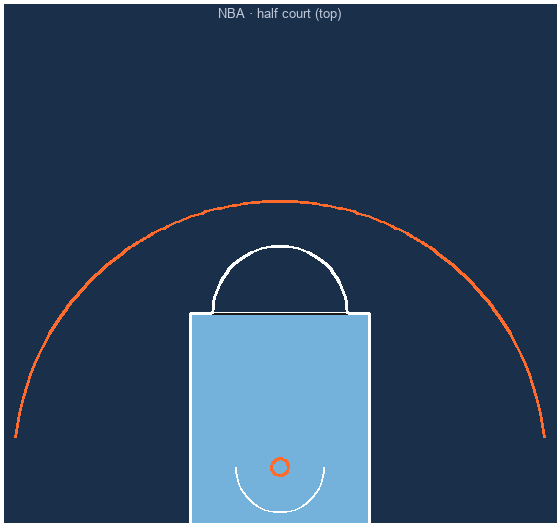
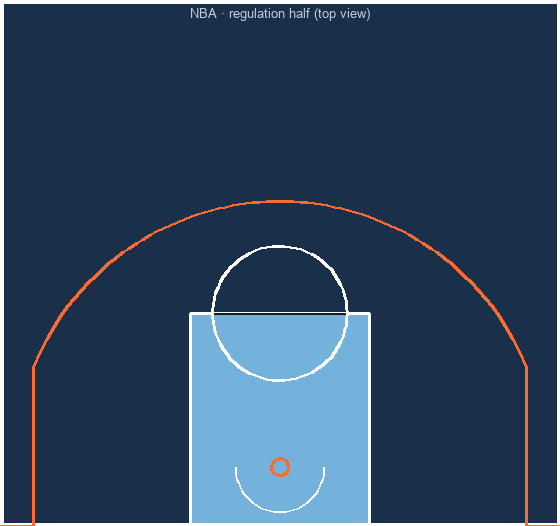
NBA regulation half-court geometry: 3pt corners, restricted arc, FT circle; sync web PNG
Made-with: Cursor

diff --git a/web/js/swish.js b/web/js/swish.js
@@ -12,6 +12,10 @@
   const HOOP_X = 0,
     HOOP_Y = 5.25;
   const THREE_R = 23.75;
+  const THREE_LINE_INSET = 3;
+  const THREE_JOIN_X = 25 - THREE_LINE_INSET;
+  const RESTRICTED_R = 4;
+  const FT_CIRCLE_R = 6;
   const PAINT_X = 8;
   const FT_Y = 19;
   const COURT_W = 560;
@@ -165,7 +169,8 @@
     ctx.fill();
 
     const rimOrange = "#ff6b2d";
-    ctx.strokeStyle = "#e8eef5";
+    const lineWhite = "#e8eef5";
+    ctx.strokeStyle = lineWhite;
     ctx.lineWidth = Math.max(1, w / 280);
     const line = (x0, y0, x1, y1) => {
       const a = feetToPixel(x0, y0, w, h);
@@ -176,30 +181,69 @@
       ctx.stroke();
     };
 
+    line(-25, 0, 25, 0);
+    line(-25, 0, -25, 47);
+    line(25, 0, 25, 47);
+    line(-25, 47, 25, 47);
+
     line(-PAINT_X, COURT_Y0, PAINT_X, COURT_Y0);
     line(PAINT_X, COURT_Y0, PAINT_X, FT_Y);
     line(-PAINT_X, FT_Y, PAINT_X, FT_Y);
     line(-PAINT_X, COURT_Y0, -PAINT_X, FT_Y);
-    line(-25, 47, 25, 47);
+    line(-6, FT_Y, 6, FT_Y);
 
-    ctx.strokeStyle = rimOrange;
-    ctx.lineWidth = Math.max(2, w / 200);
-    line(-3, COURT_Y0, -3, 4);
-    line(3, COURT_Y0, 3, 4);
-
-    const hx = HOOP_X,
-      hy = HOOP_Y;
+    ctx.strokeStyle = lineWhite;
+    ctx.lineWidth = Math.max(2, w / 240);
     ctx.beginPath();
-    for (let i = 0; i <= 120; i++) {
-      const xv = -23.6 + (47.2 * i) / 120;
-      const d = THREE_R * THREE_R - (xv - hx) * (xv - hx);
-      if (d < 0) continue;
-      const yv = hy + Math.sqrt(d);
-      const [px, py] = feetToPixel(xv, yv, w, h);
+    for (let i = 0; i <= 64; i++) {
+      const t = (i / 64) * Math.PI * 2;
+      const [px, py] = feetToPixel(
+        FT_CIRCLE_R * Math.cos(t),
+        FT_Y + FT_CIRCLE_R * Math.sin(t),
+        w,
+        h
+      );
       if (i === 0) ctx.moveTo(px, py);
       else ctx.lineTo(px, py);
     }
+    ctx.closePath();
+    ctx.stroke();
+
+    ctx.lineWidth = Math.max(1.5, w / 300);
+    ctx.beginPath();
+    for (let i = 0; i <= 32; i++) {
+      const t = Math.PI + (i / 32) * Math.PI;
+      const [px, py] = feetToPixel(
+        RESTRICTED_R * Math.cos(t),
+        HOOP_Y + RESTRICTED_R * Math.sin(t),
+        w,
+        h
+      );
+      if (i === 0) ctx.moveTo(px, py);
+      else ctx.lineTo(px, py);
+    }
+    ctx.stroke();
+
+    const hx = HOOP_X,
+      hy = HOOP_Y;
     ctx.strokeStyle = rimOrange;
+    ctx.lineWidth = Math.max(2, w / 200);
+    ctx.beginPath();
+    const jx = THREE_JOIN_X;
+    const [pR0, pR1] = [feetToPixel(25, 0, w, h), feetToPixel(jx, 0, w, h)];
+    ctx.moveTo(pR0[0], pR0[1]);
+    ctx.lineTo(pR1[0], pR1[1]);
+    for (let i = 0; i <= 72; i++) {
+      const xv = jx + (i / 72) * (-2 * jx);
+      const d = THREE_R * THREE_R - xv * xv;
+      if (d < 0) continue;
+      const yv = hy + Math.sqrt(d);
+      const [px, py] = feetToPixel(xv, yv, w, h);
+      ctx.lineTo(px, py);
+    }
+    const [pL1, pL0] = [feetToPixel(-jx, 0, w, h), feetToPixel(-25, 0, w, h)];
+    ctx.lineTo(pL1[0], pL1[1]);
+    ctx.lineTo(pL0[0], pL0[1]);
     ctx.stroke();
 
     const RIM_R_FT = 0.75;

diff --git a/swish.py b/swish.py
@@ -63,14 +63,20 @@ DARK_CSS = """
 </style>
 """
 
-# Half court in feet: baseline y=0, midcourt y=47, width ±25 (50 ft).
+# NBA regulation — offensive half (baseline y=0 toward midcourt y=47).
+# Full court 94'×50'; division line at 47'. Key 16'×19'; FT line 19' from baseline (15' from backboard plane).
+# Ref: NBA Official Playing Rules, court diagram.
 COURT_X0, COURT_X1 = -25.0, 25.0
 COURT_Y0, COURT_Y1 = 0.0, 47.0
-HOOP = (0.0, 5.25)
-RIM_R = 0.75
-FT_Y = 19.0
-PAINT_X = 8.0
-THREE_R = 23.75
+HOOP = (0.0, 5.25)  # 5'3" — baseline to center of ring
+RIM_R = 0.75  # 18" diameter rim → 9" radius
+FT_Y = 19.0  # baseline to free-throw line
+PAINT_X = 8.0  # half of 16' lane width
+THREE_R = 23.75  # 23'9" arc from basket center
+THREE_LINE_INSET_FT = 3.0  # 3pt straight segments run 3' inside each sideline
+THREE_JOIN_X = COURT_X1 - THREE_LINE_INSET_FT  # 22 — where arc meets verticals
+RESTRICTED_R_FT = 4.0  # no-charge semicircle
+FT_CIRCLE_R_FT = 6.0
 
 # Canvas / background size (50:47 court aspect; image is scaled to this)
 COURT_IMG_W = 560
@@ -165,20 +171,8 @@ def format_shot_one_line(shot: dict) -> str:
     return f"{res} · {t}"
 
 
-def three_point_arc_points():
-    hx, hy = HOOP
-    xs, ys = [], []
-    for xv in np.linspace(-23.6, 23.6, 140):
-        d = THREE_R**2 - (xv - hx) ** 2
-        if d < 0:
-            continue
-        xs.append(float(xv))
-        ys.append(float(hy + np.sqrt(d)))
-    return xs, ys
-
-
 def build_nba_halfcourt_image(w: int, h: int) -> Image.Image:
-    """NBA-style half court (top view): ~50×47 ft, dark blue floor, baby-blue key, orange rim."""
+    """NBA half court (top view): regulation lane, FT circle, restricted arc, 3pt (arc + corner segments)."""
     floor = (26, 47, 74)
     img = Image.new("RGB", (w, h), floor)
     overlay = Image.new("RGBA", (w, h), (0, 0, 0, 0))
@@ -189,6 +183,9 @@ def build_nba_halfcourt_image(w: int, h: int) -> Image.Image:
         p0 = feet_to_pixel(x0, y0, w, h)
         p1 = feet_to_pixel(x1, y1, w, h)
         draw.line([p0, p1], fill=fill, width=width)
+
+    hx, hy = HOOP
+    jx = THREE_JOIN_X
 
     # Lane / paint (baby blue)
     lane = [
@@ -214,25 +211,54 @@ def build_nba_halfcourt_image(w: int, h: int) -> Image.Image:
     fline(dr, -PAINT_X, FT_Y, -PAINT_X, COURT_Y0, 3)
     fline(dr, -6, FT_Y, 6, FT_Y, 2, "#1a1a1a")
 
-    t = np.linspace(0, np.pi, 40)
-    pts = [feet_to_pixel(6 * np.cos(ti), FT_Y + 6 * np.sin(ti), w, h) for ti in t]
-    for i in range(len(pts) - 1):
-        dr.line([pts[i], pts[i + 1]], fill="#ffffff", width=3)
+    # Free-throw circle (6' radius), full circle
+    t_ft = np.linspace(0, 2 * np.pi, 72)
+    pts_ft = [
+        feet_to_pixel(
+            FT_CIRCLE_R_FT * np.cos(ti), FT_Y + FT_CIRCLE_R_FT * np.sin(ti), w, h
+        )
+        for ti in t_ft
+    ]
+    for i in range(len(pts_ft) - 1):
+        dr.line([pts_ft[i], pts_ft[i + 1]], fill="#ffffff", width=3)
 
-    t2 = np.linspace(np.pi, 2 * np.pi, 32)
-    pts2 = [feet_to_pixel(4 * np.cos(ti), HOOP[1] + 4 * np.sin(ti), w, h) for ti in t2]
-    for i in range(len(pts2) - 1):
-        dr.line([pts2[i], pts2[i + 1]], fill="#ffffff", width=2)
+    # Restricted area: 4' semicircle opening toward baseline
+    t_rs = np.linspace(np.pi, 2 * np.pi, 36)
+    pts_rs = [
+        feet_to_pixel(
+            RESTRICTED_R_FT * np.cos(ti),
+            hy + RESTRICTED_R_FT * np.sin(ti),
+            w,
+            h,
+        )
+        for ti in t_rs
+    ]
+    for i in range(len(pts_rs) - 1):
+        dr.line([pts_rs[i], pts_rs[i + 1]], fill="#ffffff", width=2)
 
     th = np.linspace(0, 2 * np.pi, 36)
-    pts3 = [feet_to_pixel(HOOP[0] + RIM_R * np.cos(ti), HOOP[1] + RIM_R * np.sin(ti), w, h) for ti in th]
+    pts3 = [
+        feet_to_pixel(
+            hx + RIM_R * np.cos(ti), hy + RIM_R * np.sin(ti), w, h
+        )
+        for ti in th
+    ]
     for i in range(len(pts3) - 1):
         dr.line([pts3[i], pts3[i + 1]], fill="#ff6b2d", width=3)
 
-    ax, ay = three_point_arc_points()
-    if ax:
-        for i in range(len(ax) - 1):
-            fline(dr, ax[i], ay[i], ax[i + 1], ay[i + 1], 3, fill="#ff6b2d")
+    # Three-point line: baseline → vertical (3' inside sideline) → 23'9" arc → vertical → baseline
+    poly_3 = []
+    poly_3.append(feet_to_pixel(COURT_X1, COURT_Y0, w, h))
+    poly_3.append(feet_to_pixel(jx, COURT_Y0, w, h))
+    for xv in np.linspace(jx, -jx, 73):
+        yv = hy + float(np.sqrt(max(0.0, THREE_R**2 - float(xv) ** 2)))
+        poly_3.append(feet_to_pixel(float(xv), yv, w, h))
+    poly_3.append(feet_to_pixel(-jx, COURT_Y0, w, h))
+    poly_3.append(feet_to_pixel(COURT_X0, COURT_Y0, w, h))
+    flat3 = []
+    for px, py in poly_3:
+        flat3.extend([px, py])
+    dr.line(flat3, fill="#ff6b2d", width=3)
 
     fline(dr, COURT_X0, COURT_Y1, COURT_X1, COURT_Y1, 2, "#ffffff")
 
@@ -240,7 +266,7 @@ def build_nba_halfcourt_image(w: int, h: int) -> Image.Image:
         font = ImageFont.truetype("/System/Library/Fonts/Supplemental/Arial.ttf", 13)
     except OSError:
         font = ImageFont.load_default()
-    label = "NBA · half court (top)"
+    label = "NBA · regulation half (top view)"
     if hasattr(dr, "textbbox"):
         bbox = dr.textbbox((0, 0), label, font=font)
         tw = bbox[2] - bbox[0]
@@ -251,7 +277,7 @@ def build_nba_halfcourt_image(w: int, h: int) -> Image.Image:
 
 
 # Bump to invalidate @st.cache_data on Streamlit Cloud when court graphics change.
-_COURT_BITMAP_CACHE_VERSION = 2
+_COURT_BITMAP_CACHE_VERSION = 3
 
 
 @st.cache_data(show_spinner=False)
